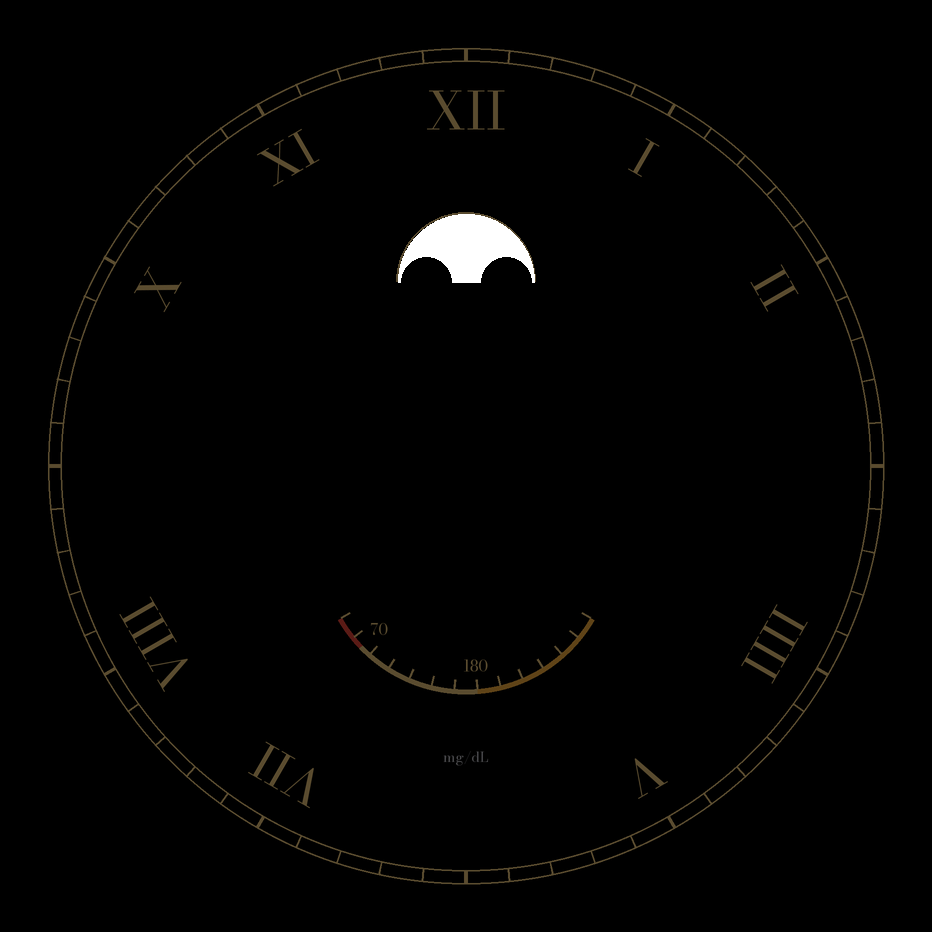
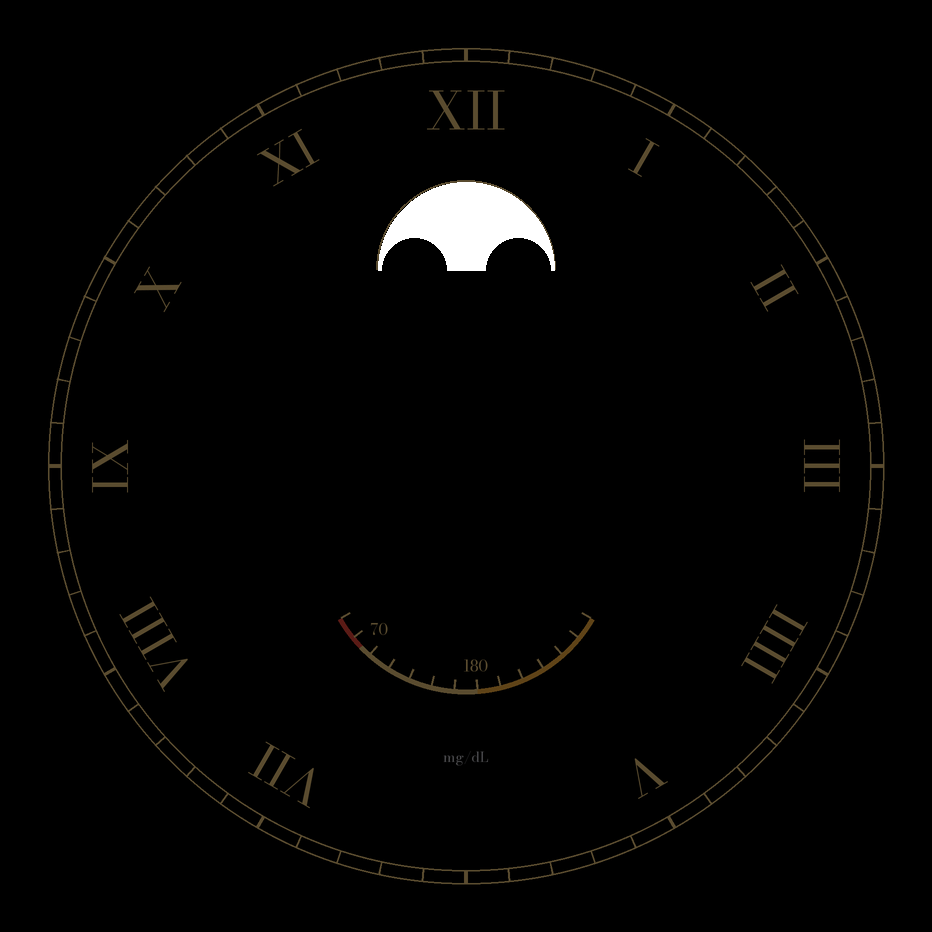
fix: larger Nocturne sub-dials and moon phase, add III and IX

Changed region(s): [[0.4045, 0.1867, 0.5912, 0.3112], [0.0933, 0.4667, 0.1556, 0.529], [0.8401, 0.4667, 0.9024, 0.529]]

diff --git a/scripts/gen_nocturne_xml.py b/scripts/gen_nocturne_xml.py
@@ -84,7 +84,7 @@ XML = f'''<?xml version="1.0" encoding="utf-8"?>
 
         <!-- ===== Moon disc, UNDER the dial: it shows through the transparent aperture of the
              background. Two moons opposite: new moon = moons hidden by the humps (90 deg). ===== -->
-{ind(needle("disco_lunar", "moon", "noc_hand3d_moon", 233, 141, MOON_ANGLE), 8)}
+{ind(needle("disco_lunar", "moon", "noc_hand3d_moon", 233, 135, MOON_ANGLE), 8)}
 
         <!-- ===== Dial (Blender, with the aperture as a hole) and Always-On dial (opaque black
              with the same hole; numerals, track, aperture rim and glucose scale in dim gold) ===== -->
@@ -107,7 +107,7 @@ XML = f'''<?xml version="1.0" encoding="utf-8"?>
             </Text>
         </PartText>
 
-        <!-- ===== 9 o'clock: activity (icon) + power reserve (battery), centre (143, 241), r 36 ===== -->
+        <!-- ===== 9 o'clock: activity (icon) + power reserve (battery), centre (141, 243), r 44 ===== -->
         <Group name="reserva" x="0" y="0" width="466" height="466">
             <Variant mode="AMBIENT" target="alpha" value="0" />
             <Condition>
@@ -116,37 +116,37 @@ XML = f'''<?xml version="1.0" encoding="utf-8"?>
                 </Expressions>
                 <Compare expression="baja">
                     <Group name="reserva_baja" x="0" y="0" width="466" height="466">
-{ind(shadowed("reserva_aguja", "reserve_low", 143, 241, R_ANGLE), 24)}
+{ind(shadowed("reserva_aguja", "reserve_low", 141, 243, R_ANGLE), 24)}
                     </Group>
                 </Compare>
                 <Default>
                     <Group name="reserva_normal" x="0" y="0" width="466" height="466">
-{ind(shadowed("reserva_aguja", "reserve", 143, 241, R_ANGLE), 24)}
+{ind(shadowed("reserva_aguja", "reserve", 141, 243, R_ANGLE), 24)}
                     </Group>
                 </Default>
             </Condition>
         </Group>
-        <ComplicationSlot slotId="10" displayName="Actividad" x="107" y="205" width="72" height="72"
+        <ComplicationSlot slotId="10" displayName="Actividad" x="97" y="199" width="88" height="88"
             supportedTypes="MONOCHROMATIC_IMAGE SMALL_IMAGE SHORT_TEXT EMPTY">
             <Variant mode="AMBIENT" target="alpha" value="0" />
             <DefaultProviderPolicy defaultSystemProvider="EMPTY" defaultSystemProviderType="EMPTY"
                 primaryProvider="com.heytap.wearable.sports/com.heytap.wearable.sports.complications.SportFreeTrainingComplicationService"
                 primaryProviderType="MONOCHROMATIC_IMAGE" />
-            <BoundingOval x="0" y="0" width="72" height="72" />
+            <BoundingOval x="0" y="0" width="88" height="88" />
             <Complication type="MONOCHROMATIC_IMAGE">
                 <!-- OHealth sends a green icon; hue rotated to gold as on the NVC face -->
-                <PartImage x="20" y="36" width="32" height="32">
+                <PartImage x="25" y="42" width="38" height="38">
                     <ImageFilters><HsbFilter hueRotate="115" saturate="0.7" /></ImageFilters>
                     <Image resource="[COMPLICATION.MONOCHROMATIC_IMAGE]" />
                 </PartImage>
             </Complication>
             <Complication type="SMALL_IMAGE">
-                <PartImage x="20" y="36" width="32" height="32">
+                <PartImage x="25" y="42" width="38" height="38">
                     <Image resource="[COMPLICATION.SMALL_IMAGE]" />
                 </PartImage>
             </Complication>
             <Complication type="SHORT_TEXT">
-                <PartText x="6" y="40" width="60" height="22">
+                <PartText x="8" y="48" width="72" height="24">
                     <Text align="CENTER" ellipsis="TRUE">
                         <Font family="bodoni_moda" size="16" color="{CREAM}">
                             <Template>%s<Parameter expression="[COMPLICATION.TEXT]" /></Template>
@@ -157,21 +157,21 @@ XML = f'''<?xml version="1.0" encoding="utf-8"?>
             <Complication type="EMPTY" />
         </ComplicationSlot>
 
-        <!-- ===== 3 o'clock: weather, centre (323, 241), r 36 ===== -->
-        <ComplicationSlot slotId="11" displayName="Tiempo" x="287" y="205" width="72" height="72"
+        <!-- ===== 3 o'clock: weather, centre (325, 243), r 44 ===== -->
+        <ComplicationSlot slotId="11" displayName="Tiempo" x="281" y="199" width="88" height="88"
             supportedTypes="SHORT_TEXT EMPTY">
             <Variant mode="AMBIENT" target="alpha" value="0" />
             <DefaultProviderPolicy defaultSystemProvider="EMPTY" defaultSystemProviderType="EMPTY"
                 primaryProvider="com.heytap.wearable.weather/com.heytap.wearable.weather.complication.wearos.TemperatureProviderService"
                 primaryProviderType="SHORT_TEXT" />
-            <BoundingOval x="0" y="0" width="72" height="72" />
+            <BoundingOval x="0" y="0" width="88" height="88" />
             <Complication type="SHORT_TEXT">
-                <PartImage x="24" y="10" width="24" height="24" tintColor="#ffd6b470">
+                <PartImage x="29" y="12" width="30" height="30" tintColor="#ffd6b470">
                     <Image resource="[COMPLICATION.MONOCHROMATIC_IMAGE]" />
                 </PartImage>
-                <PartText x="6" y="34" width="60" height="28">
+                <PartText x="8" y="42" width="72" height="34">
                     <Text align="CENTER" ellipsis="TRUE">
-                        <Font family="bodoni_moda" size="22" color="{CREAM}">
+                        <Font family="bodoni_moda" size="27" color="{CREAM}">
                             <Template>%s<Parameter expression="[COMPLICATION.TEXT]" /></Template>
                         </Font>
                     </Text>

diff --git a/art/blender/nocturne.py b/art/blender/nocturne.py
@@ -53,11 +53,11 @@ dial = wk.cylinder("dial", 0, 0, 212.8, -0.3, 0.0, DIAL, verts=256)
 wk.torus("chapter_edge", 0, 0, 150, 0.06, 0.0, GOLD_POL)
 
 # moon phase at 12: semicircular aperture (r 34) with the two classic "humps" that hide the moons
-# at new moon. Moons ride the disc at r 20 from its centre, which is the aperture centre.
-MX, MY, MR = 0, -92, 34
-HUMP_X, HUMP_R = 20, 12.5
+# at new moon. Moons ride the disc at r 26 from its centre, which is the aperture centre.
+MX, MY, MR = 0, -98, 44      # enlarged on the user's request (2026-11-23; was (0, -92), r 34)
+HUMP_X, HUMP_R = 26, 16
 cut = wk.cylinder("cut_moon", MX, MY, MR, -1, 1, NAVY_INK)
-for nm, obj in [("half", wk.box("cut_moon_half", MX, MY + 20, 80, 40, -2, 2, 0, NAVY_INK, bevel=0)),
+for nm, obj in [("half", wk.box("cut_moon_half", MX, MY + 30, 120, 60, -2, 2, 0, NAVY_INK, bevel=0)),
                 ("hump_l", wk.cylinder("hump_l", MX - HUMP_X, MY, HUMP_R, -2, 2, NAVY_INK)),
                 ("hump_r", wk.cylinder("hump_r", MX + HUMP_X, MY, HUMP_R, -2, 2, NAVY_INK))]:
     md = cut.modifiers.new(nm, "BOOLEAN")
@@ -67,14 +67,14 @@ for nm, obj in [("half", wk.box("cut_moon_half", MX, MY + 20, 80, 40, -2, 2, 0, 
     obj.hide_render = True
 wk.boolean_cut(dial, cut)
 arch = wk.torus("moon_rim", MX, MY, MR + 0.8, 0.08, 0.0, GOLD_POL)
-wk.boolean_cut(arch, wk.box("rim_cut", MX, MY + 20, 80, 40, -2, 2, 0, NAVY_INK, bevel=0))
+wk.boolean_cut(arch, wk.box("rim_cut", MX, MY + 30, 120, 60, -2, 2, 0, NAVY_INK, bevel=0))
 for side in (-1, 1):  # gold edge on each hump
     hr = wk.torus(f"hump_rim{side}", MX + side * HUMP_X, MY, HUMP_R + 0.6, 0.06, 0.0, GOLD_POL)
-    wk.boolean_cut(hr, wk.box(f"hump_rim_cut{side}", MX + side * HUMP_X, MY + 20, 40, 40, -2, 2, 0, NAVY_INK,
+    wk.boolean_cut(hr, wk.box(f"hump_rim_cut{side}", MX + side * HUMP_X, MY + 30, 60, 60, -2, 2, 0, NAVY_INK,
                               bevel=0))
 if not BG:  # sketch only: in the watch face the disc is a separate, turning layer under the dial
-    wk.cylinder("sky", MX, MY, 40, -0.9, -0.6, SKY)
-    bpy.ops.mesh.primitive_uv_sphere_add(radius=1.1, location=(*wk.W(MX, MY - 20), -0.6))
+    wk.cylinder("sky", MX, MY, 52, -0.9, -0.6, SKY)
+    bpy.ops.mesh.primitive_uv_sphere_add(radius=1.4, location=(*wk.W(MX, MY - 26), -0.6))
     moon = bpy.context.active_object
     moon.scale = (1, 1, 0.35)
     moon.data.materials.append(GOLD_MOON)
@@ -84,11 +84,11 @@ if not BG:  # sketch only: in the watch face the disc is a separate, turning lay
 wk.logo(0, -42, 54, 0.04, wk.logo_material(gold=(0.95, 0.76, 0.44, 1), roughness=0.2))
 
 # sub-dials 9 (activity + reserve) and 3 (weather): recessed, snailed, gold rims
-for x, nm in [(-90, "activity"), (90, "weather")]:
-    wk.boolean_cut(dial, wk.cylinder("cut_" + nm, x, 8, 36, -1, 1, NAVY_INK))
-    wk.cylinder("floor_" + nm, x, 8, 36.5, -0.45, -0.25, wk.snail_material(
+for x, nm in [(-92, "activity"), (92, "weather")]:  # r 44 (2026-11-23; was (+-90, 8), r 36)
+    wk.boolean_cut(dial, wk.cylinder("cut_" + nm, x, 10, 44, -1, 1, NAVY_INK))
+    wk.cylinder("floor_" + nm, x, 10, 44.5, -0.45, -0.25, wk.snail_material(
         "floor_" + nm, {"Base Color": (0.01, 0.022, 0.07, 1), "Metallic": 0.5, "Roughness": 0.3}, PRINT, scale=22))
-    wk.torus("rim_" + nm, x, 8, 36.8, 0.08, 0.0, GOLD_POL)
+    wk.torus("rim_" + nm, x, 10, 44.8, 0.08, 0.0, GOLD_POL)
 
 # date at 6 in the chapter ring
 wk.boolean_cut(dial, wk.box("cut_date", 0, 178, 22, 16, -1, 1, 0, NAVY_INK, bevel=0))
@@ -105,8 +105,8 @@ if not BG:
     wk.text_obj("date_num", str(DAY), wk.BODONI, 13, 0, 178, -0.585, NAVY_INK)
     wk.text_obj("gval", str(GLUCOSE), wk.BODONI, 20, 0, 132, 0.01, GLUC_TXT)
     wk.text_obj("gtrend", "→", wk.SYMBOLS, 14, 26, 133, 0.01, GLUC_TXT)
-    wk.hand("reserve", -60 + 1.2 * BATTERY, 2.5, 0.4, 0.18, 0.06, -0.2, 0.04, GOLD_HAND, pivot=(-90, 8))
-    wk.cylinder("rcap", -90, 8, 2.2, -0.2, -0.1, GOLD_HAND, verts=48)
+    wk.hand("reserve", -60 + 1.2 * BATTERY, 3.2, 0.5, 0.22, 0.08, -0.2, 0.04, GOLD_HAND, pivot=(-92, 10))
+    wk.cylinder("rcap", -92, 10, 2.6, -0.2, -0.1, GOLD_HAND, verts=48)
     wk.hand("gneedle", f2deg(GLUCOSE), 7.1, 0.8, 0.22, 0.06, 0.05, 0.04, BLUED, pivot=(0, 40))
     wk.cylinder("gcap", 0, 40, 3.2, 0.05, 0.14, BLUED, verts=48)
     hd, md_, sd = wk.hand_angles(TIME)

diff --git a/art/blender/make_prints.py b/art/blender/make_prints.py
@@ -165,7 +165,7 @@ def nocturne(out: Path):
     d = ImageDraw.Draw(img)
     romans = ["XII", "I", "II", "III", "IIII", "V", "VI", "VII", "VIII", "IX", "X", "XI"]
     for h, rn in enumerate(romans):
-        if h in (3, 6, 9):
+        if h == 6:  # the date window sits at 6; III and IX fit outside the sub-dials (user, 2026-11-23)
             continue
         label(img, rn, BODONI, 24 if h else 26, *polar(178, h * 30), NGOLD, rot=h * 30)
     # railroad minute track
@@ -175,9 +175,9 @@ def nocturne(out: Path):
         tick(d, m * 6, 202.6, 209.0, 1.6 if m % 5 == 0 else 0.7, NGOLD)
     # sub-dial ticks: reserve scale on the 9 o'clock dial, plain ticks on the 3 o'clock dial
     for i in range(6):
-        tick(d, -60 + i * 24, 24, 29, 0.9, NGOLD, -90, 8)
+        tick(d, -60 + i * 24, 30, 36, 1.1, NGOLD, -92, 10)
     for i in range(12):
-        tick(d, i * 30, 31, 34.5, 0.8, NGOLD, 90, 8)
+        tick(d, i * 30, 38.5, 42.5, 0.9, NGOLD, 92, 10)
     # glucose fan
     fx, fy, fr = FAN
     for lo, hi, c in [(40, 70, RED), (70, 180, NGOLD), (180, 300, AMBER)]:
@@ -197,8 +197,8 @@ def nocturne(out: Path):
     # moon-phase sky (projected on the disc under the aperture)
     sky = Image.new("RGBA", (N, N), (0, 0, 0, 0))
     sd = ImageDraw.Draw(sky)
-    mx, my = 0.0, -92.0
-    sd.ellipse([*P(mx - 40, my - 40), *P(mx + 40, my + 40)], fill=(16, 34, 104, 255))
+    mx, my = 0.0, -98.0
+    sd.ellipse([*P(mx - 52, my - 52), *P(mx + 52, my + 52)], fill=(16, 34, 104, 255))
     for sx, sy, sr in [(-22, -16, 1.3), (-12, -26, 0.9), (6, -28, 1.1), (19, -18, 1.4), (25, -6, 0.9),
                        (-27, -4, 1.0), (13, -8, 0.8), (-4, -18, 0.6)]:
         sd.ellipse([*P(mx + sx - sr, my + sy - sr), *P(mx + sx + sr, my + sy + sr)], fill=(244, 214, 140, 255))
@@ -208,11 +208,11 @@ def nocturne(out: Path):
     # centred on the image centre because the disc is rendered at the origin
     disc = Image.new("RGBA", (N, N), (0, 0, 0, 0))
     dd = ImageDraw.Draw(disc)
-    dd.ellipse([*P(-40, -40), *P(40, 40)], fill=(16, 34, 104, 255))
+    dd.ellipse([*P(-52, -52), *P(52, 52)], fill=(16, 34, 104, 255))
     import random
     rnd = random.Random(29)
-    for _ in range(46):
-        r = 22 + 17 * math.sqrt(rnd.random())
+    for _ in range(60):
+        r = 30 + 21 * math.sqrt(rnd.random())
         a = rnd.random() * 2 * math.pi
         sx, sy, sr = r * math.cos(a), r * math.sin(a), 0.5 + 0.8 * rnd.random()
         dd.ellipse([*P(sx - sr, sy - sr), *P(sx + sr, sy + sr)], fill=(244, 214, 140, 255))

diff --git a/art/blender/hands.py b/art/blender/hands.py
@@ -85,15 +85,15 @@ def nocturne(name, m):
         wk.cylinder("gcap", 0, 0, 3.2, 0.05, 0.14, gold, verts=48)
     elif name in ("reserve", "reserve_low"):
         mat = m["red_metal"] if name == "reserve_low" else gold
-        wk.hand(name, 0, 2.6, 0.45, 0.22, 0.08, 0.05, 0.04, mat)
-        wk.cylinder("rcap", 0, 0, 2.4, 0.05, 0.13, gold, verts=48)
-    elif name == "moon":        # moon disc: two gold moons opposite, r 20 from the centre
+        wk.hand(name, 0, 3.2, 0.5, 0.24, 0.09, 0.05, 0.04, mat)
+        wk.cylinder("rcap", 0, 0, 2.8, 0.05, 0.13, gold, verts=48)
+    elif name == "moon":        # moon disc: two gold moons opposite, r 26 from the centre
         sky = wk.projected_color_material("disc_sky", wk.BUILD / "nocturne_moon_disc.png",
                                           {"Roughness": 0.35, "Coat Weight": 0.5})
-        wk.cylinder("disc", 0, 0, 40, -0.3, 0.0, sky, verts=128)
+        wk.cylinder("disc", 0, 0, 52, -0.3, 0.0, sky, verts=160)
         moon_mat = wk.simple("moon", **{"Base Color": (1.0, 0.80, 0.45, 1), "Metallic": 1.0, "Roughness": 0.45})
-        for y in (-20, 20):
-            bpy.ops.mesh.primitive_uv_sphere_add(radius=1.1, location=(*wk.W(0, y), 0.0))
+        for y in (-26, 26):
+            bpy.ops.mesh.primitive_uv_sphere_add(radius=1.4, location=(*wk.W(0, y), 0.0))
             mo = bpy.context.active_object
             mo.scale = (1, 1, 0.35)
             mo.data.materials.append(moon_mat)

diff --git a/art/blender/nocturne_aod.py b/art/blender/nocturne_aod.py
@@ -18,8 +18,8 @@ N = 932
 K = 2.0
 C = N / 2
 DIM = 0.42
-MX, MY, MR = 0, -92, 34          # aperture (watch px from the centre), as art/blender/nocturne.py
-HUMP_X, HUMP_R = 20, 12.5
+MX, MY, MR = 0, -98, 44          # aperture (watch px from the centre), as art/blender/nocturne.py
+HUMP_X, HUMP_R = 26, 16
 
 
 def P(x, y):
@@ -41,8 +41,8 @@ def dial(art: Path, prints: Path):
     # keep numerals, track and glucose fan; drop the sub-dial scales (hidden in ambient)
     keep = Image.new("L", (N, N), 255)
     kd = ImageDraw.Draw(keep)
-    for x in (-90, 90):
-        kd.ellipse([*P(x - 38, 8 - 38), *P(x + 38, 8 + 38)], fill=0)
+    for x in (-92, 92):
+        kd.ellipse([*P(x - 46, 10 - 46), *P(x + 46, 10 + 46)], fill=0)
     a = ImageChops.multiply(pr.getchannel("A"), keep).point(lambda v: round(v * DIM))
     ink = pr.copy()
     ink.putalpha(a)

diff --git a/docs/superpowers/specs/2026-11-23-nocturne-design.md b/docs/superpowers/specs/2026-11-23-nocturne-design.md
@@ -50,11 +50,11 @@ Coordenadas en píxeles del reloj, centro (233, 233), y hacia abajo.
 |---|---|---|
 | Caja / bisel | oro amarillo pulido, r 213–233, perfil redondeado | fondo 3D |
 | Esfera | azul noche lacado; **clous de Paris** en el centro (r < 150); anillo de horas liso r 150–213 con filete de oro en r 150 | fondo 3D |
-| Números | romanos Bodoni impresos en oro a r 178 (sin III, VI ni IX); minutería de vía de tren r 202,6–209 | fondo 3D |
-| **Fase lunar** | apertura semicircular centrada en (233, 141), r 34, con aro de oro; disco detrás con cielo lapislázuli, estrellas y dos lunas de oro | fondo con hueco + disco dinámico |
+| Números | romanos Bodoni Moda impresos en oro a r 178 (sin VI, que es la fecha; **III y IX añadidos el 2026-11-23**: caben fuera de los contadores); minutería de vía de tren r 202,6–209 | fondo 3D |
+| **Fase lunar** | apertura semicircular centrada en **(233, 135), r 44** (agrandada el 2026-11-23; era (233, 141), r 34), jorobas en ±26 r 16, lunas r 14 a 26 del eje, con aro de oro; disco detrás con cielo lapislázuli, estrellas y dos lunas de oro | fondo con hueco + disco dinámico |
 | Logo NVC | (233, 191), 54 de ancho, oro | fondo 3D |
-| Contador 9 h · actividad + reserva | centro (143, 241), r 36, hundido con caracoleado, aro de oro; arco de reserva −60°…+60° arriba; icono abajo | fondo; icono y aguja dinámicos |
-| Contador 3 h · tiempo | centro (323, 241), r 36 | fondo; icono + temperatura dinámicos |
+| Contador 9 h · actividad + reserva | centro **(141, 243), r 44** (agrandado el 2026-11-23; era (143, 241), r 36), hundido con caracoleado, aro de oro; arco de reserva −60°…+60° arriba; icono abajo | fondo; icono y aguja dinámicos |
+| Contador 3 h · tiempo | centro **(325, 243), r 44** (agrandado el 2026-11-23) | fondo; icono + temperatura dinámicos |
 | **Glucosa** | abanico retrógrado con pivote (233, 273), r 74, de 40 (a 240°) a 300 (a 120°); zonas rojo < 70, oro 70–180, ámbar > 180; marcas 70 y 180 | escala en el fondo; aguja azulada dinámica |
 | Valor de glucosa | (233, 365), número Bodoni 20 px + flecha; color por rango; «mg/dL» impreso debajo | dinámico |
 | Fecha | ventana a las 6 en el anillo de horas, (233, 411), 22×16, disco crema | ventana en el fondo; número dinámico |

diff --git a/docs/pruebas/06-nocturne.md b/docs/pruebas/06-nocturne.md
@@ -16,6 +16,13 @@
 - Fuente: Bodoni Moda (SIL OFL, `docs/licencias/OFL-BodoniModa.txt`), en lugar de la Bodoni de
   Windows, que no se puede redistribuir.
 
+## Versión 2: contadores y fase lunar más grandes, III y IX
+
+![Versión 2](capturas/06-nocturne-v2.png)
+
+Contadores r 44, ventana lunar r 44 con lunas r 14; vuelven el III y el IX (sólo falta el VI,
+donde va la fecha). Aguja de glucosa en oro.
+
 ## Cómo se reconstruye
 
 ```
